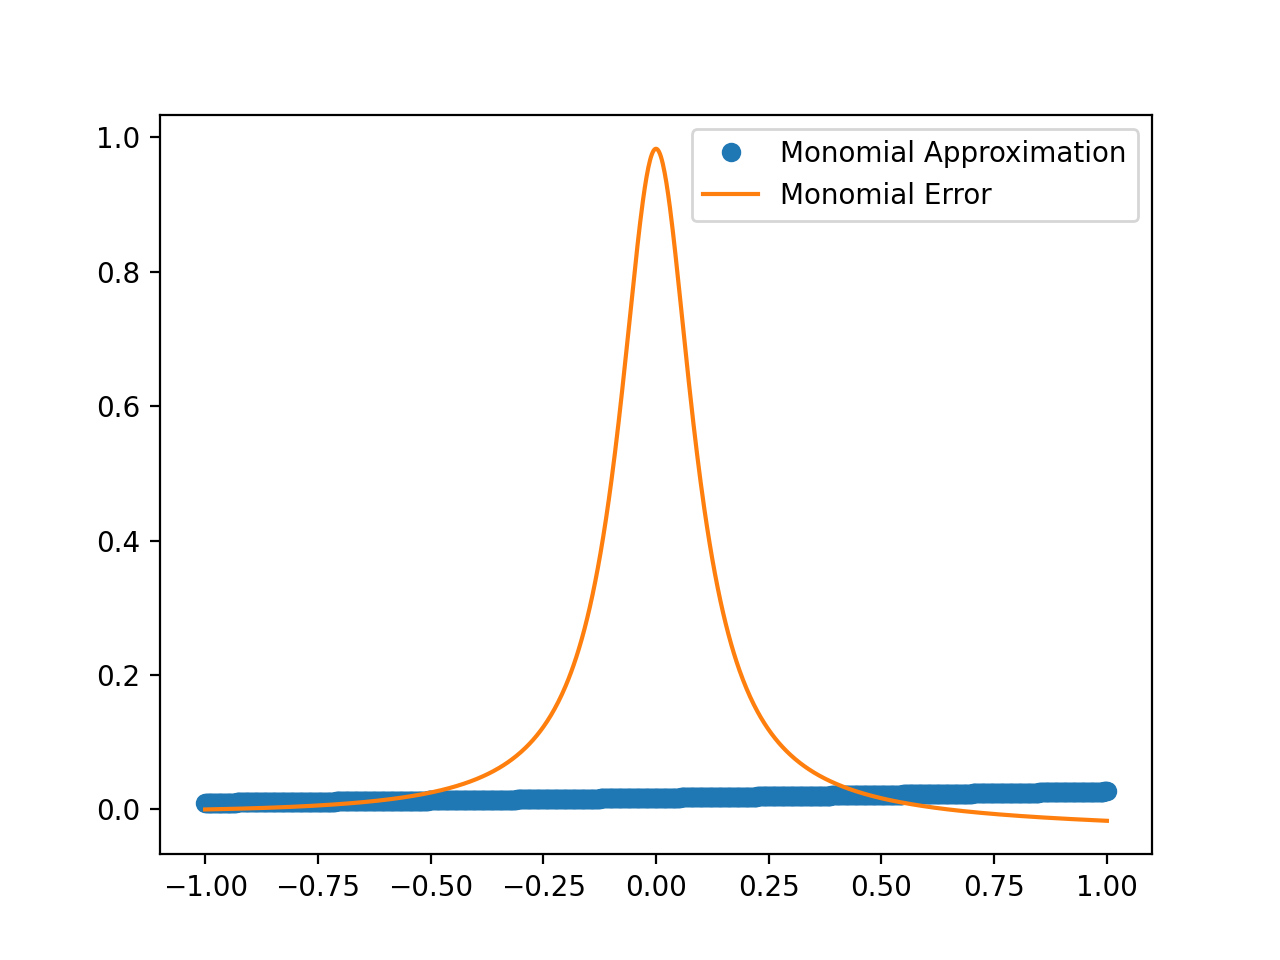
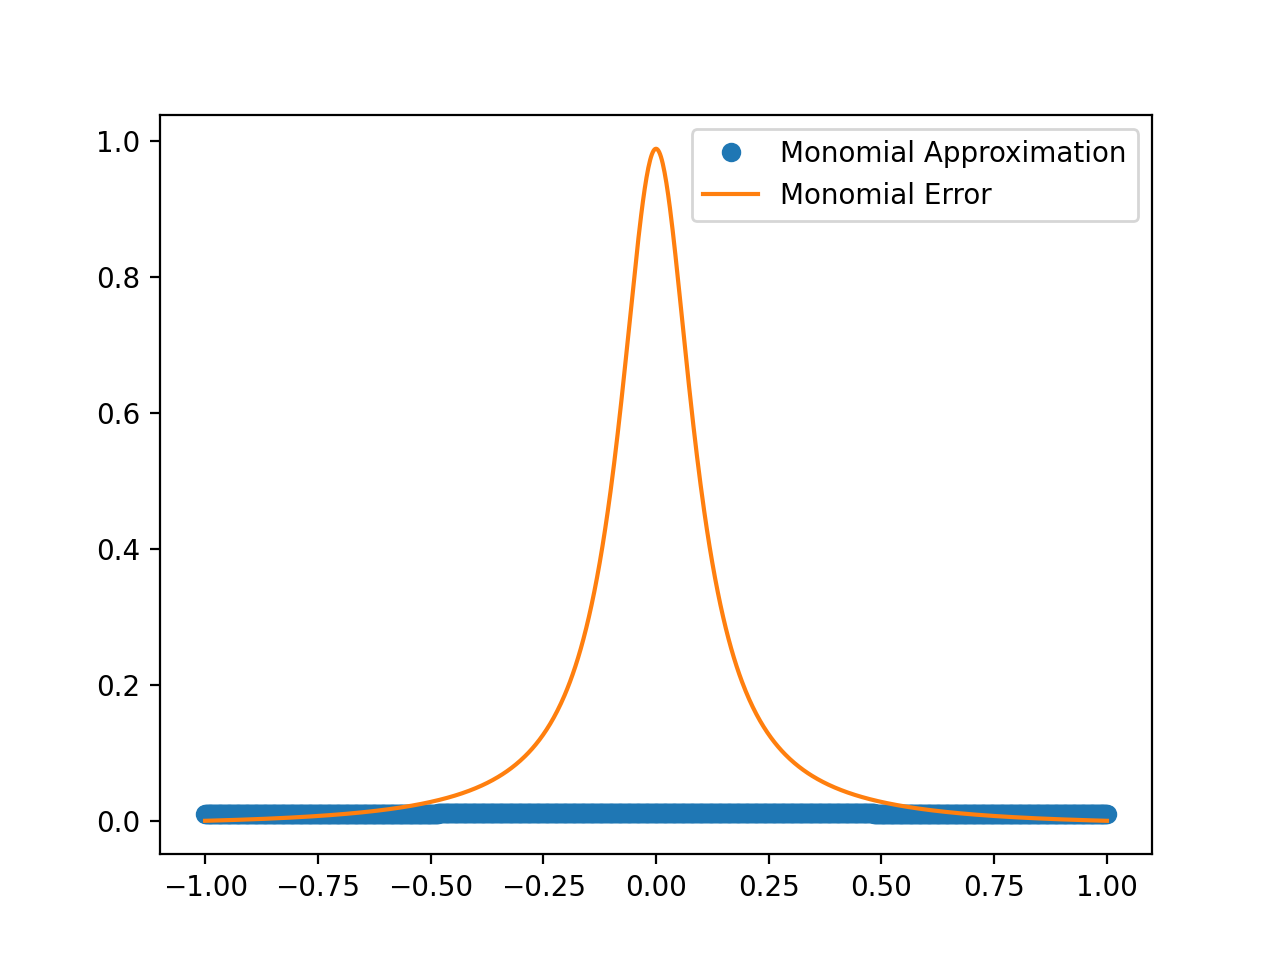
hw7

diff --git a/Homeworks/Homework7/interp1.py b/Homeworks/Homework7/interp1.py
@@ -8,7 +8,7 @@ def driver():
 
     f = lambda x: 1/(1 + (10*x)**2)
 
-    N = 10
+    N = 2
     ''' interval'''
     a = -1
     b = 1
@@ -17,7 +17,7 @@ def driver():
    
     ''' create equispaced interpolation nodes'''
     xint = np.linspace(a,b,N+1)
-    xint = -1 +(xint-1)*h
+    xint = np.array([-1 +(i-1)*h for i in range(1,N+2)])
     
     ''' create interpolation data'''
     yint = f(xint)
